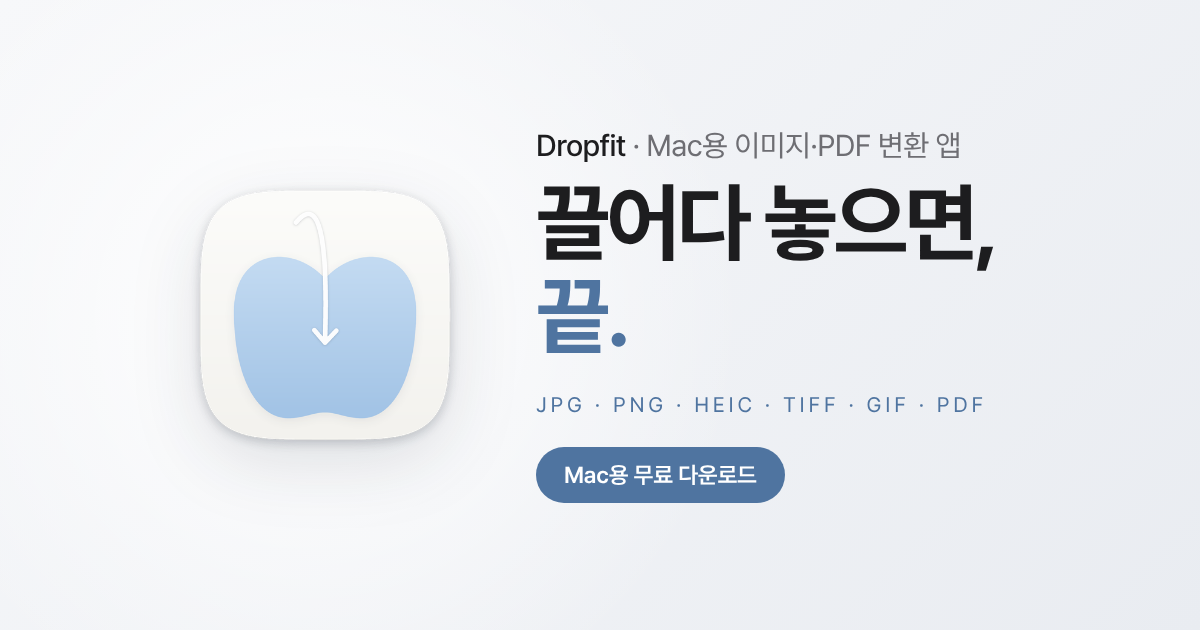
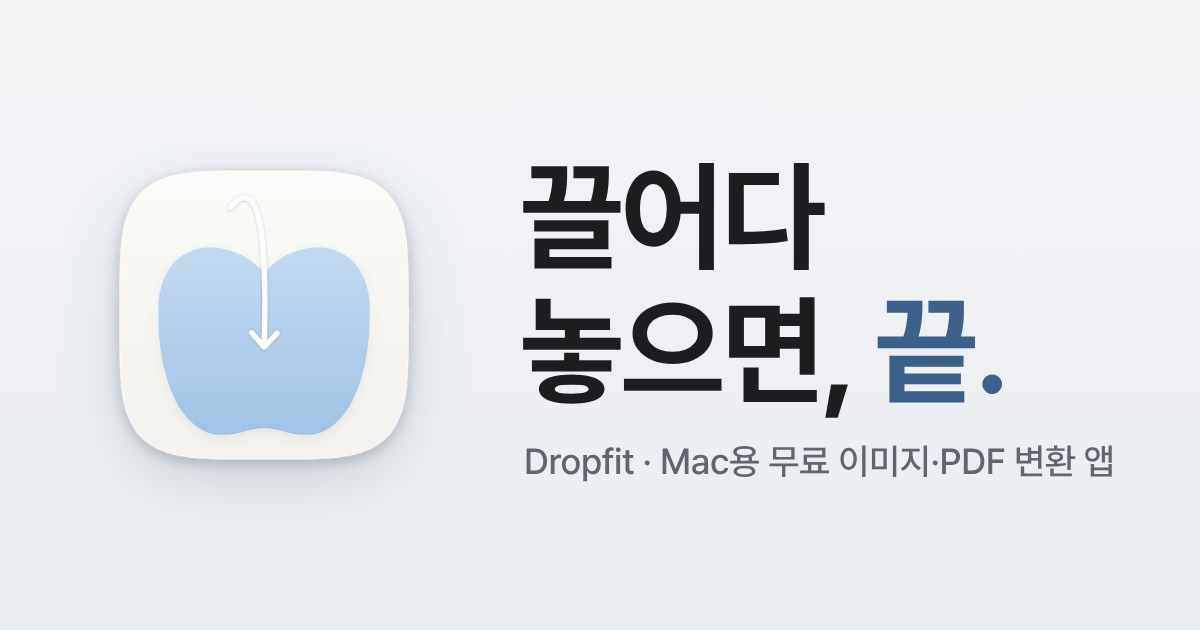
카톡 미리보기 이미지·설명 문구 교체 (C안: 아이콘 크게) (#56)
Claude-Session: https://claude.ai/code/session_01MJpaGa2cRg4Z9iYpcRg96X

diff --git a/index.html b/index.html
@@ -10,16 +10,16 @@
 <meta property="og:type" content="website">
 <meta property="og:site_name" content="Dropfit">
 <meta property="og:title" content="Dropfit · Mac용 이미지·PDF 변환 앱">
-<meta property="og:description" content="끌어다 놓으면, 끝. 이미지와 PDF를 원하는 포맷으로. 지금은 Pro 기능까지 무료입니다.">
+<meta property="og:description" content="끌어다 놓으면 끝. 사진·PDF 변환과 자르기를 Mac에서 무료로.">
 <link rel="canonical" href="https://realleejeonghoon.github.io/dropfit-download/">
 <meta property="og:url" content="https://realleejeonghoon.github.io/dropfit-download/">
-<meta property="og:image" content="https://realleejeonghoon.github.io/dropfit-download/assets/og.png?v=8">
+<meta property="og:image" content="https://realleejeonghoon.github.io/dropfit-download/assets/og.png?v=9">
 <meta property="og:image:width" content="1200">
 <meta property="og:image:height" content="630">
-<meta property="og:image:alt" content="Dropfit 앱 아이콘과 문구 ‘Mac용 이미지·PDF 변환 앱 · 끌어다 놓으면, 끝.’">
+<meta property="og:image:alt" content="Dropfit 앱 아이콘과 문구 ‘끌어다 놓으면, 끝. Dropfit · Mac용 무료 이미지·PDF 변환 앱’">
 <meta property="og:locale" content="ko_KR">
 <meta name="twitter:card" content="summary_large_image">
-<meta name="twitter:image" content="https://realleejeonghoon.github.io/dropfit-download/assets/og.png?v=8">
+<meta name="twitter:image" content="https://realleejeonghoon.github.io/dropfit-download/assets/og.png?v=9">
 
 <link rel="stylesheet" href="fonts/pretendardvariable-dynamic-subset.css">
 <link rel="icon" type="image/png" href="assets/favicon.png">
